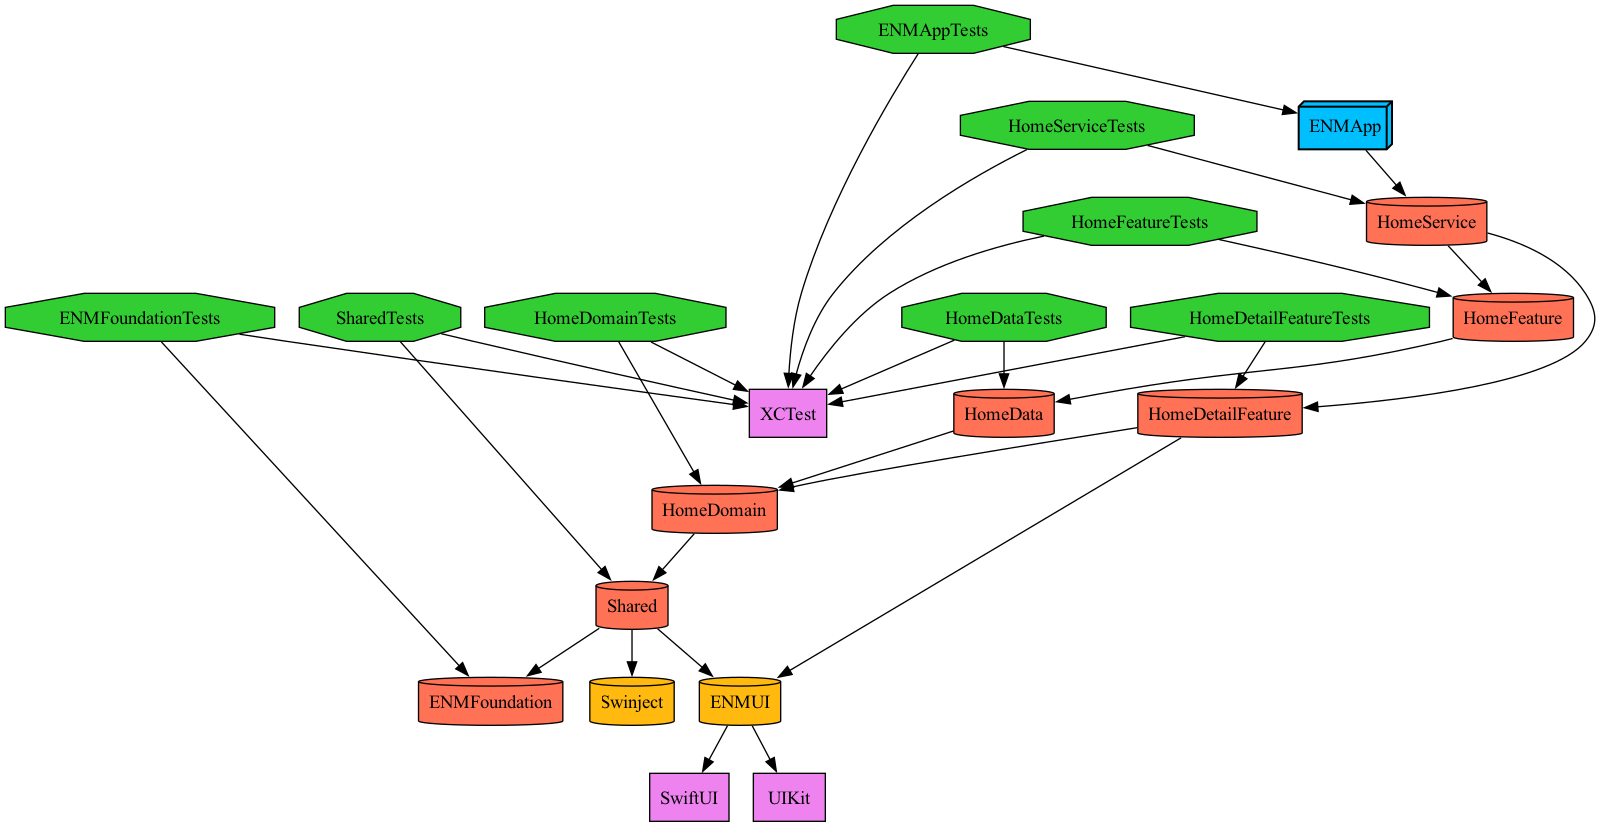
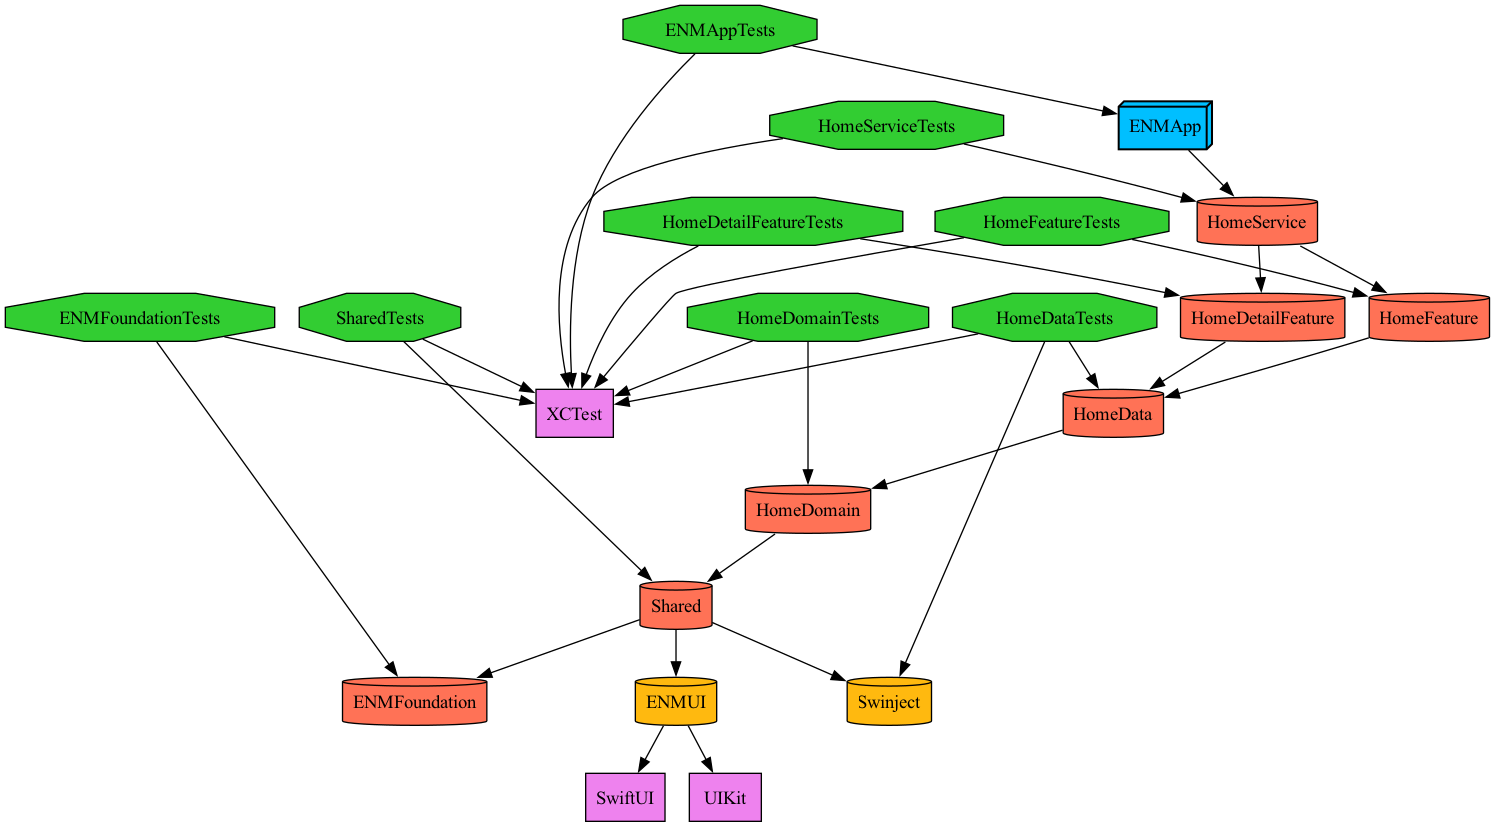
docs: 전체 프레임워크 Swift Build Documentation 추가
- ENMUI 컴포넌트 7개 완전 문서화 (ENMCardView, ENMPriceView 등)
  - Domain 계층 6개 완전 문서화 (Product, HomeUsecase 등)
  - Data 계층 6개 완전 문서화 (HomeProvider, HomeDataSource 등)
  - Feature/Service 계층 3개 완전 문서화 (ViewModel, Coordinator)
  - DI 및 유틸리티 2개 완전 문서화 (DI, HomeAssembly)

diff --git a/Projects/Module/Feature/HomeDetailFeature/Project.swift b/Projects/Module/Feature/HomeDetailFeature/Project.swift
@@ -22,8 +22,7 @@ let project = Project(
             sources: ["Sources/**"],
             resources: [],
             dependencies: [
-                .project(target: "HomeDomain", path: "../../Domain/HomeDomain"),
-                .project(target: "ENMUI", path: "../../ENMUI"),
+                .project(target: "HomeData", path: "../../Data/HomeData"),
             ]
         ),
         .target(
